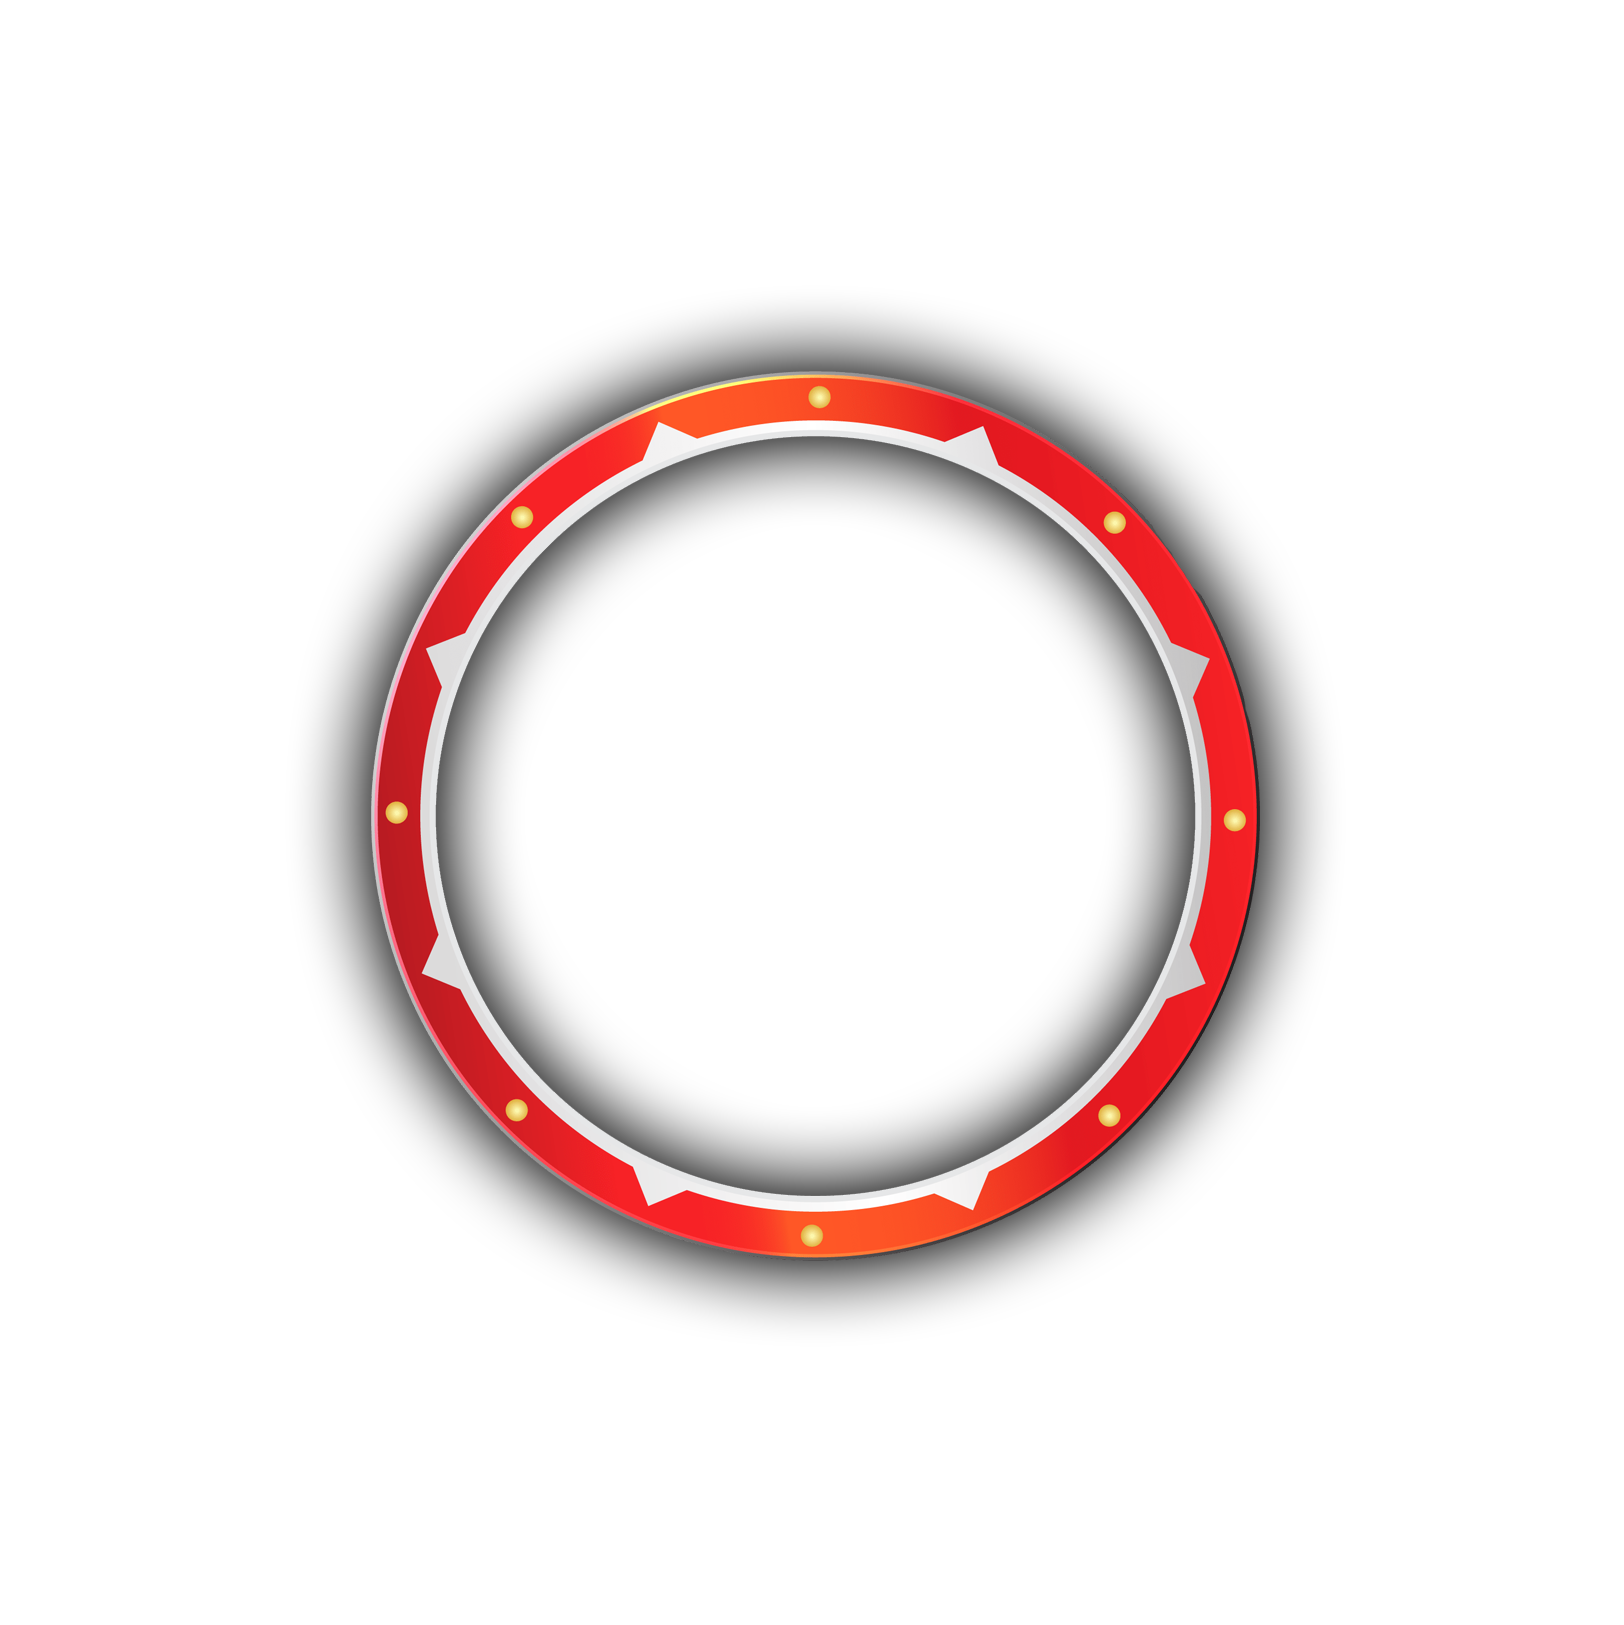
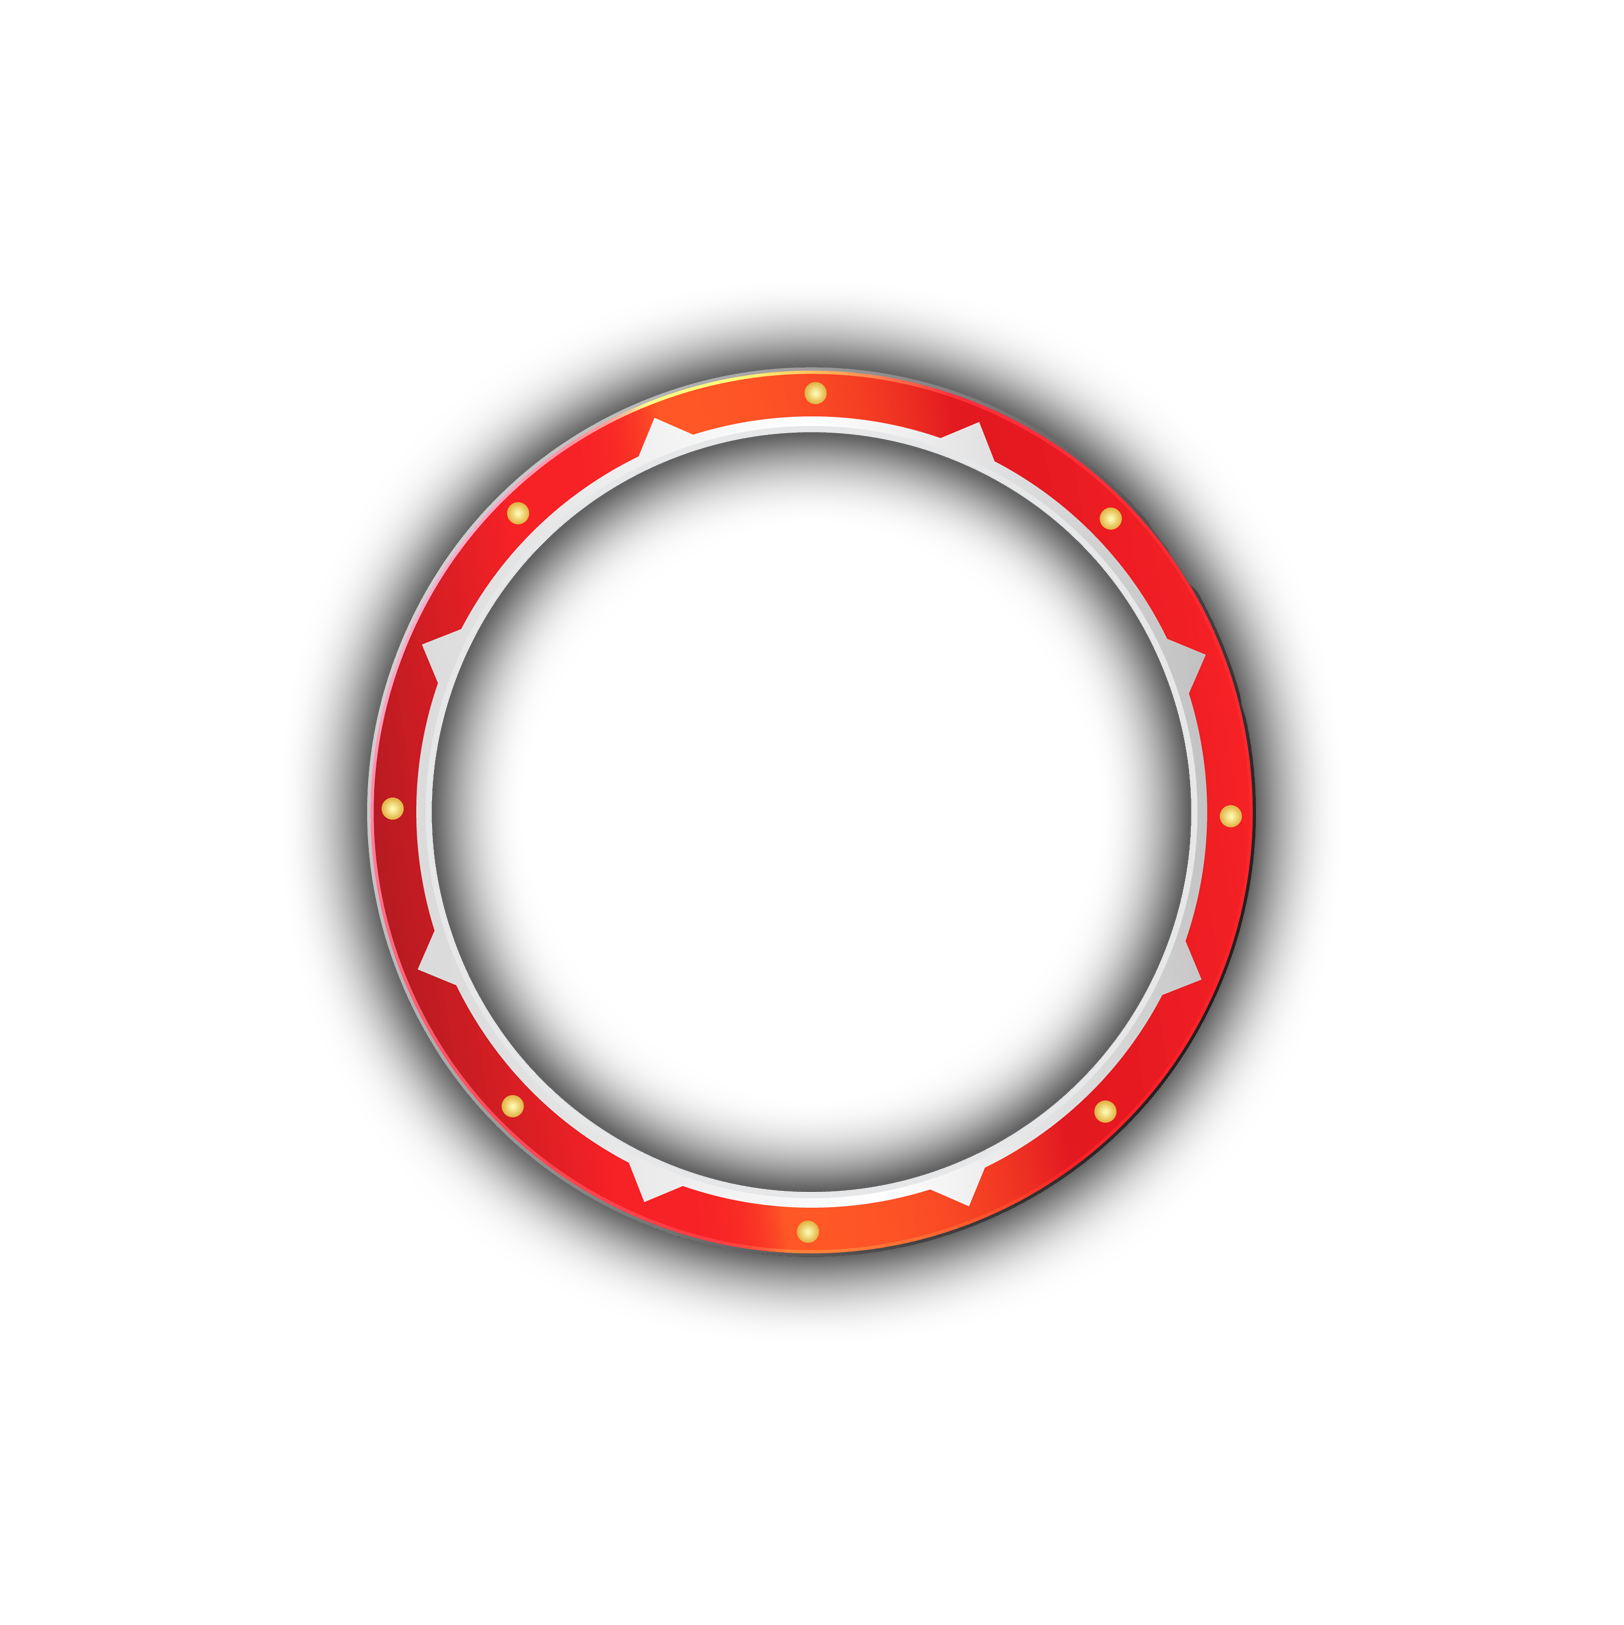
update layout

diff --git a/main.js b/main.js
@@ -511,8 +511,8 @@ class playGame extends Phaser.Scene {
         this.pin.displayHeight = 150 * window.devicePixelRatio;
         this.circle.displayWidth = 500 * window.devicePixelRatio;
         this.circle.displayHeight = 500 * window.devicePixelRatio;
-        this.outer.displayWidth = 600 * window.devicePixelRatio;
-        this.outer.displayHeight = 600 * window.devicePixelRatio;
+        this.outer.displayWidth = 630 * window.devicePixelRatio;
+        this.outer.displayHeight = 630 * window.devicePixelRatio;
         this.pin.setInteractive();
 
         // this.pin.on('pointerdown', function (pointer) {
@@ -629,7 +629,9 @@ class playGame extends Phaser.Scene {
                             // displaying prize text
                             this.prizeText.setText(gameOptions.slices[prize].text);
                             this.wheelContainer.visible = false;
-                            this.pin.visible = false
+                            this.pin.visible = false;
+                            this.circle.visible = false;
+                            this.outer.visible = false;
 
                             if (gameOptions.slices[prize].type != "zonk") {
                                 this.drumSfx.play();
